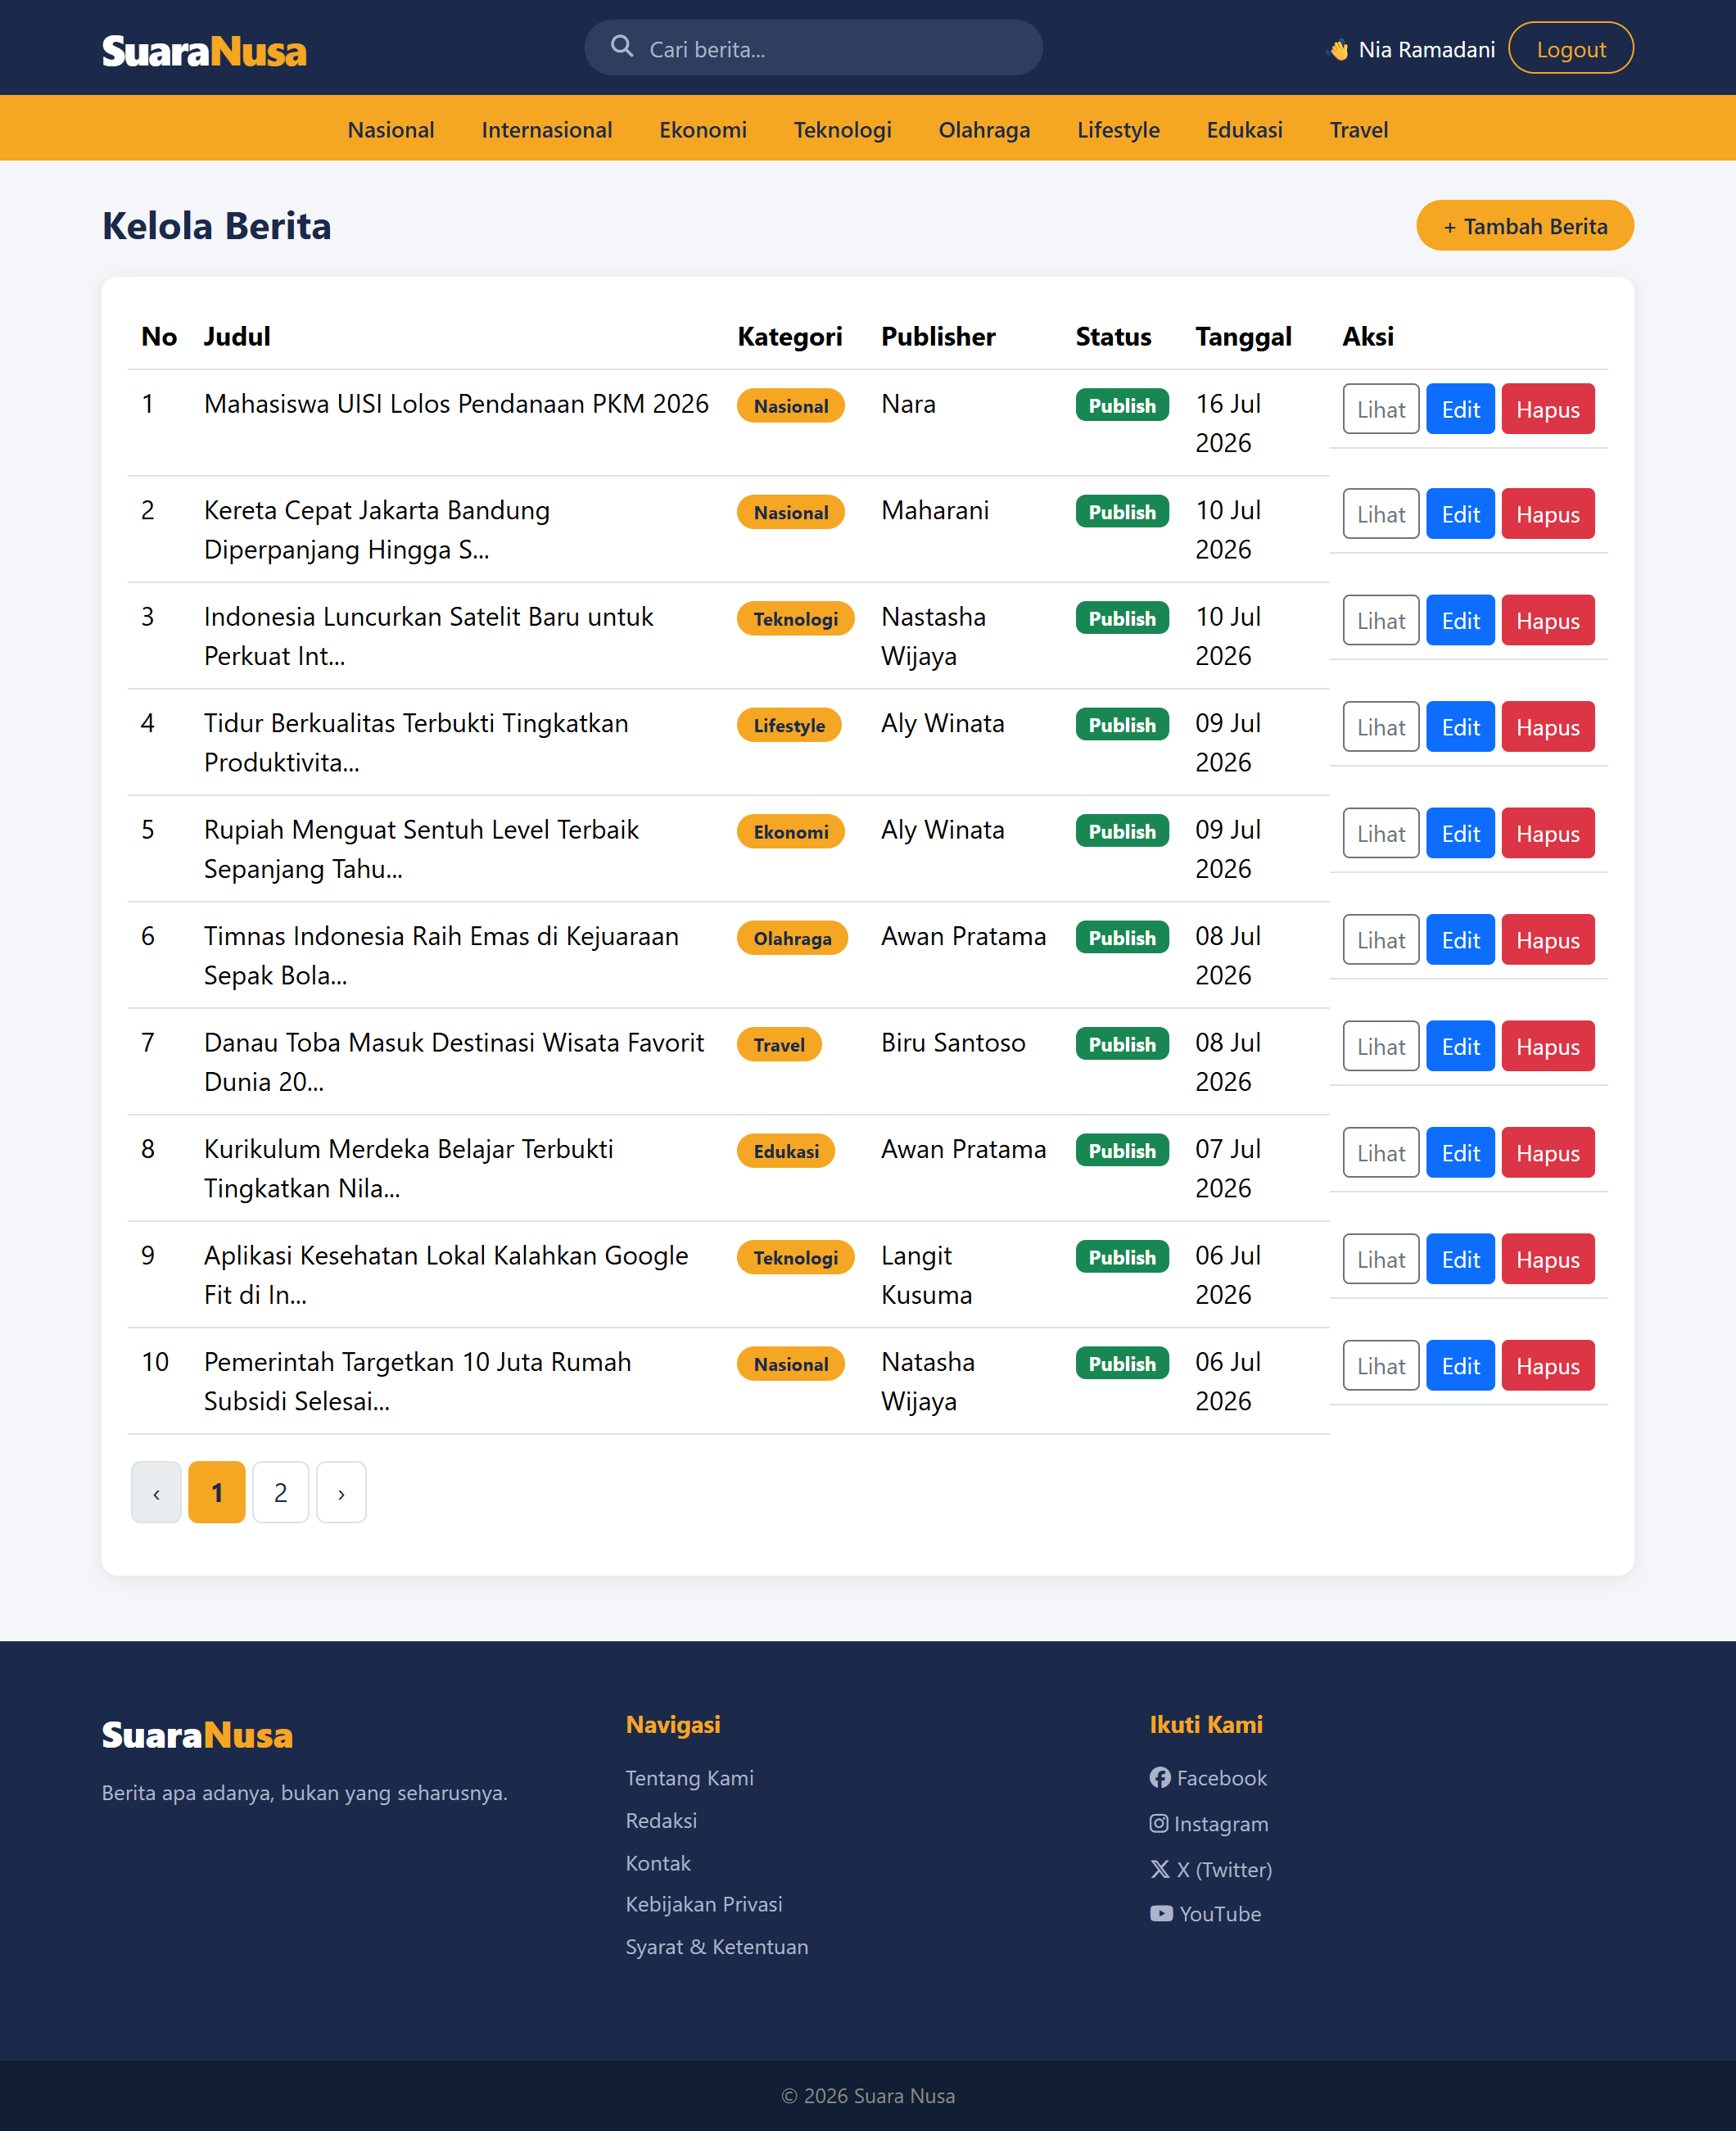
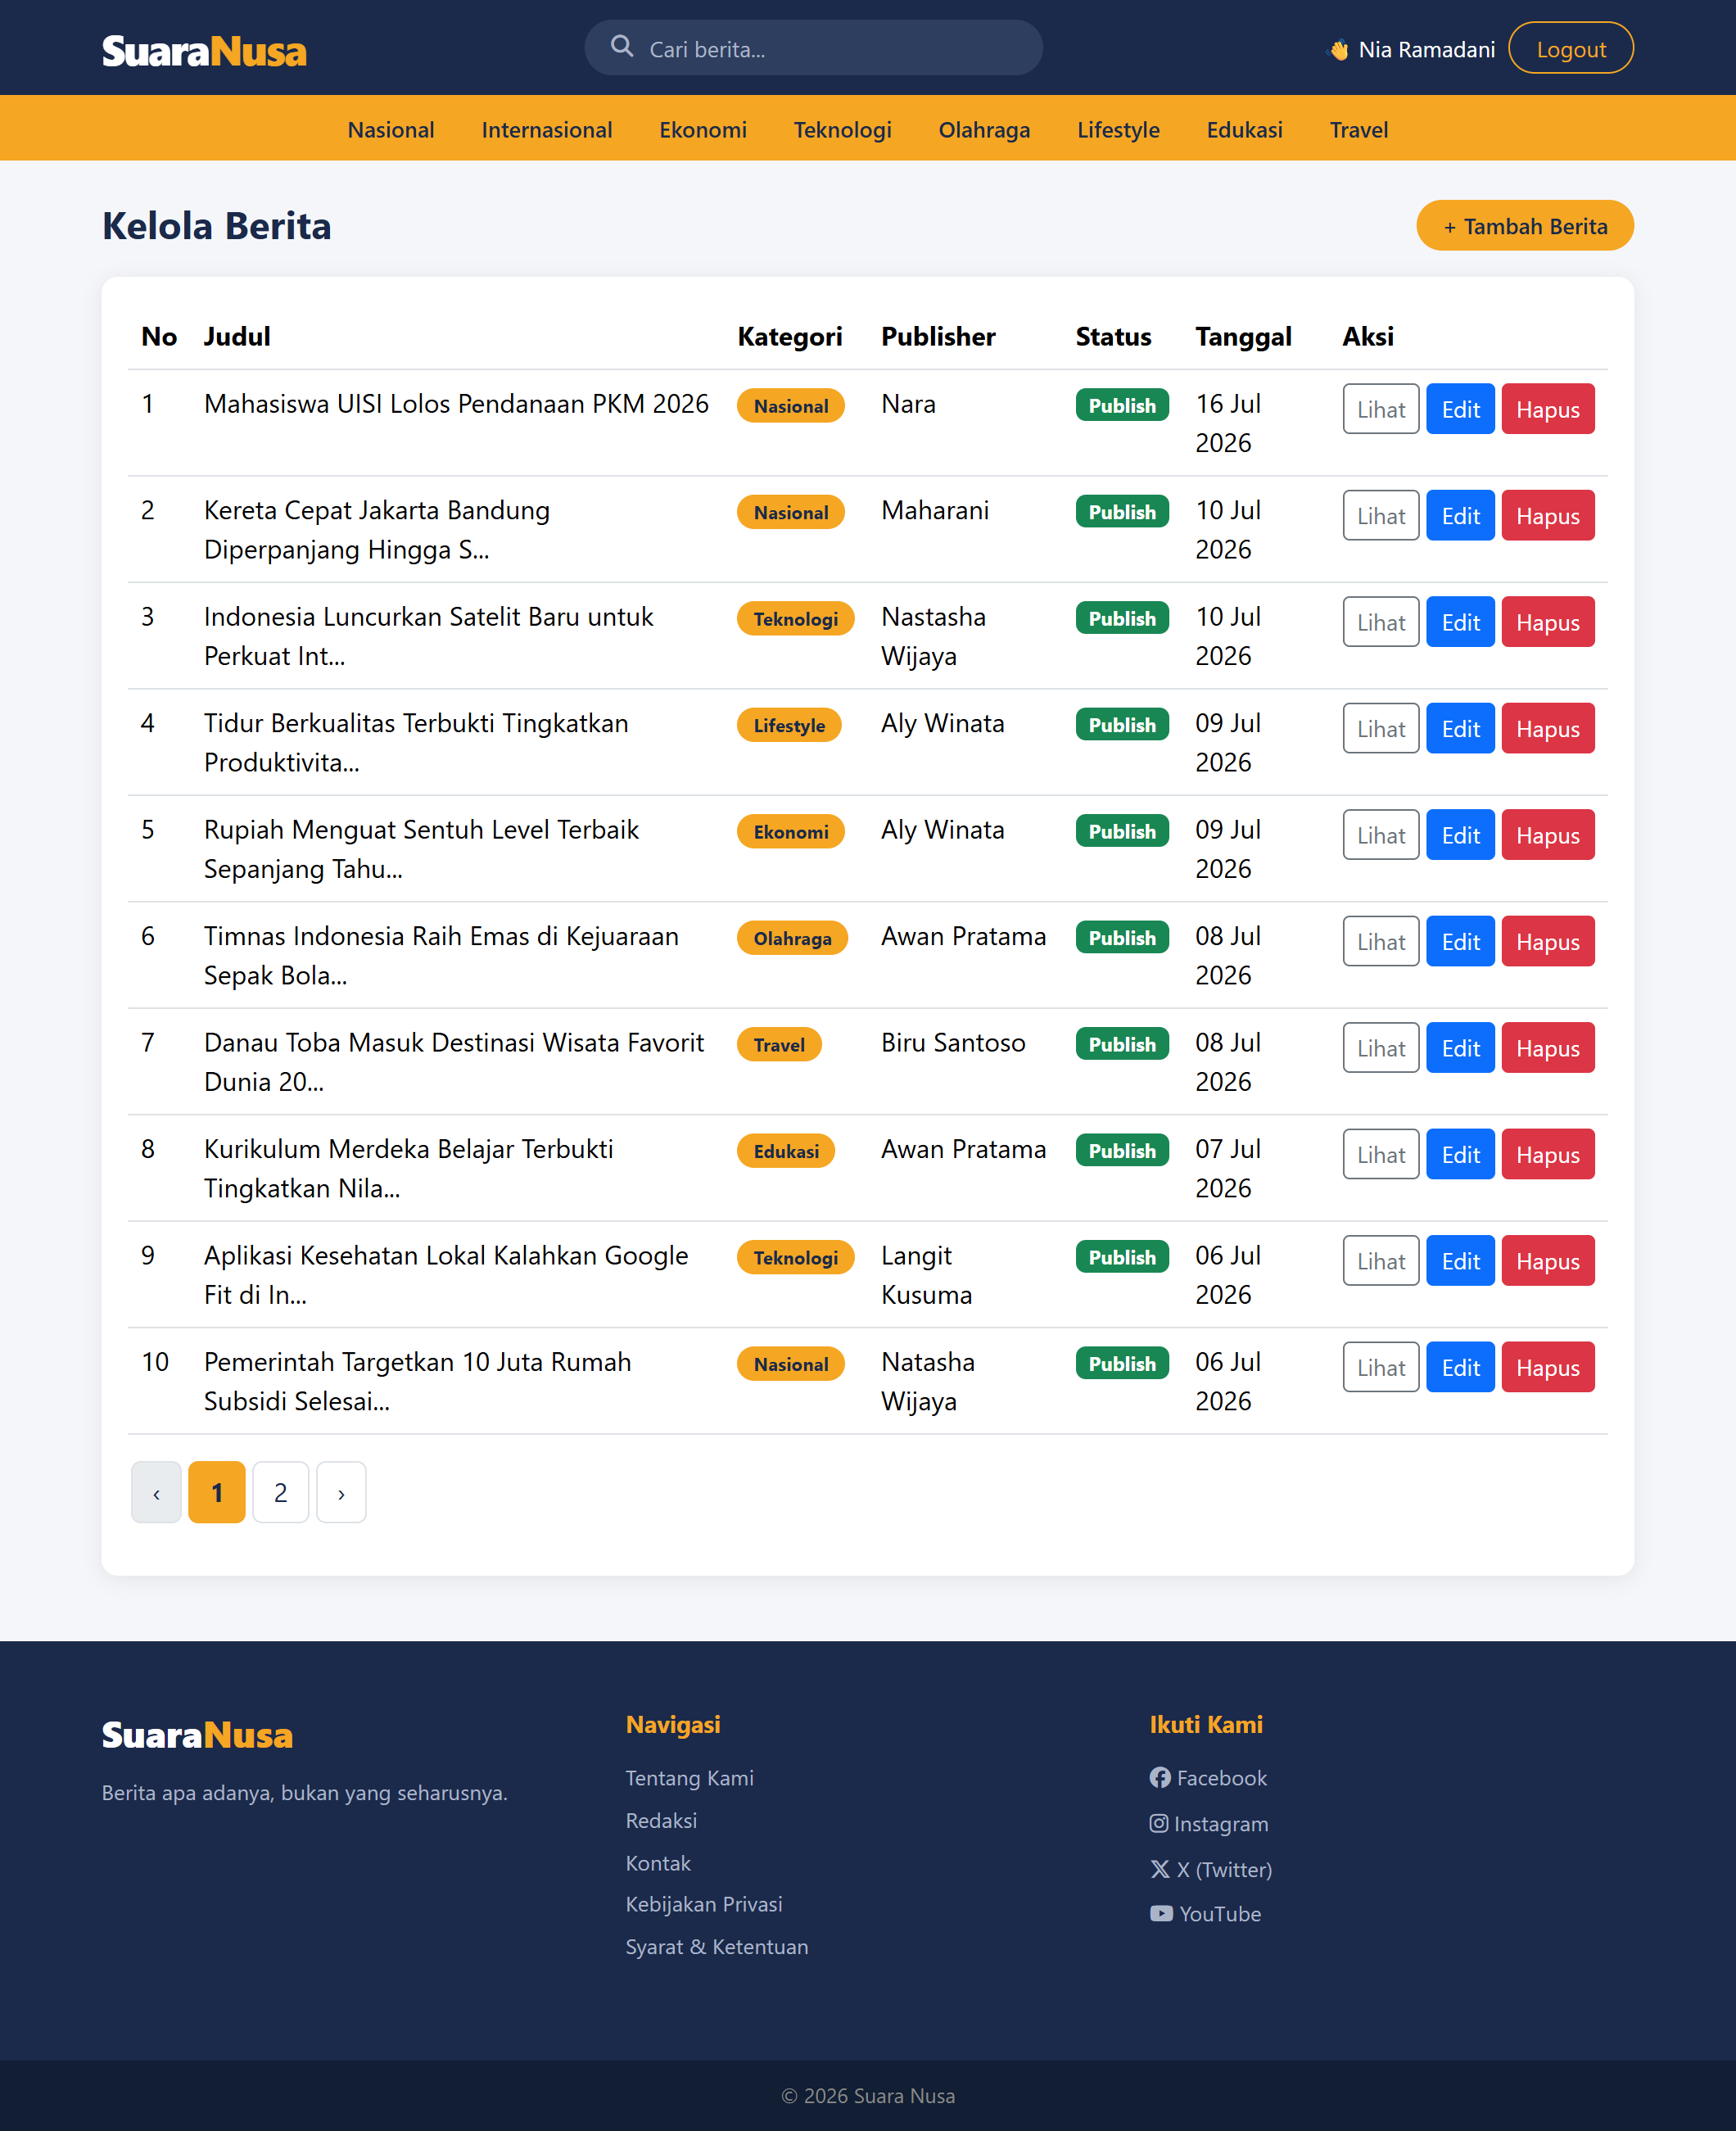
fix: admin posts table layout

diff --git a/resources/views/admin/index.blade.php b/resources/views/admin/index.blade.php
@@ -39,15 +39,17 @@
                     @endif
                 </td>
                 <td>{{ $post->created_at->format('d M Y') }}</td>
-                <td class="d-flex gap-1">
-                    <a href="{{ url('/posts/'.$post->id) }}" class="btn btn-sm btn-outline-secondary" target="_blank">Lihat</a>
-                    <a href="{{ route('admin.posts.edit', $post->id) }}" class="btn btn-sm btn-primary">Edit</a>
-                    <form action="{{ route('admin.posts.destroy', $post->id) }}" method="POST"
-                          onsubmit="return confirm('Yakin hapus berita ini?')">
-                        @csrf
-                        @method('DELETE')
-                        <button type="submit" class="btn btn-sm btn-danger">Hapus</button>
-                    </form>
+                <td>
+                    <div class="d-flex gap-1 flex-nowrap">
+                        <a href="{{ url('/posts/'.$post->id) }}" class="btn btn-sm btn-outline-secondary" target="_blank">Lihat</a>
+                        <a href="{{ route('admin.posts.edit', $post->id) }}" class="btn btn-sm btn-primary">Edit</a>
+                        <form action="{{ route('admin.posts.destroy', $post->id) }}" method="POST"
+                            onsubmit="return confirm('Yakin hapus berita ini?')">
+                            @csrf
+                            @method('DELETE')
+                            <button type="submit" class="btn btn-sm btn-danger">Hapus</button>
+                        </form>
+                    </div>
                 </td>
             </tr>
             @endforeach